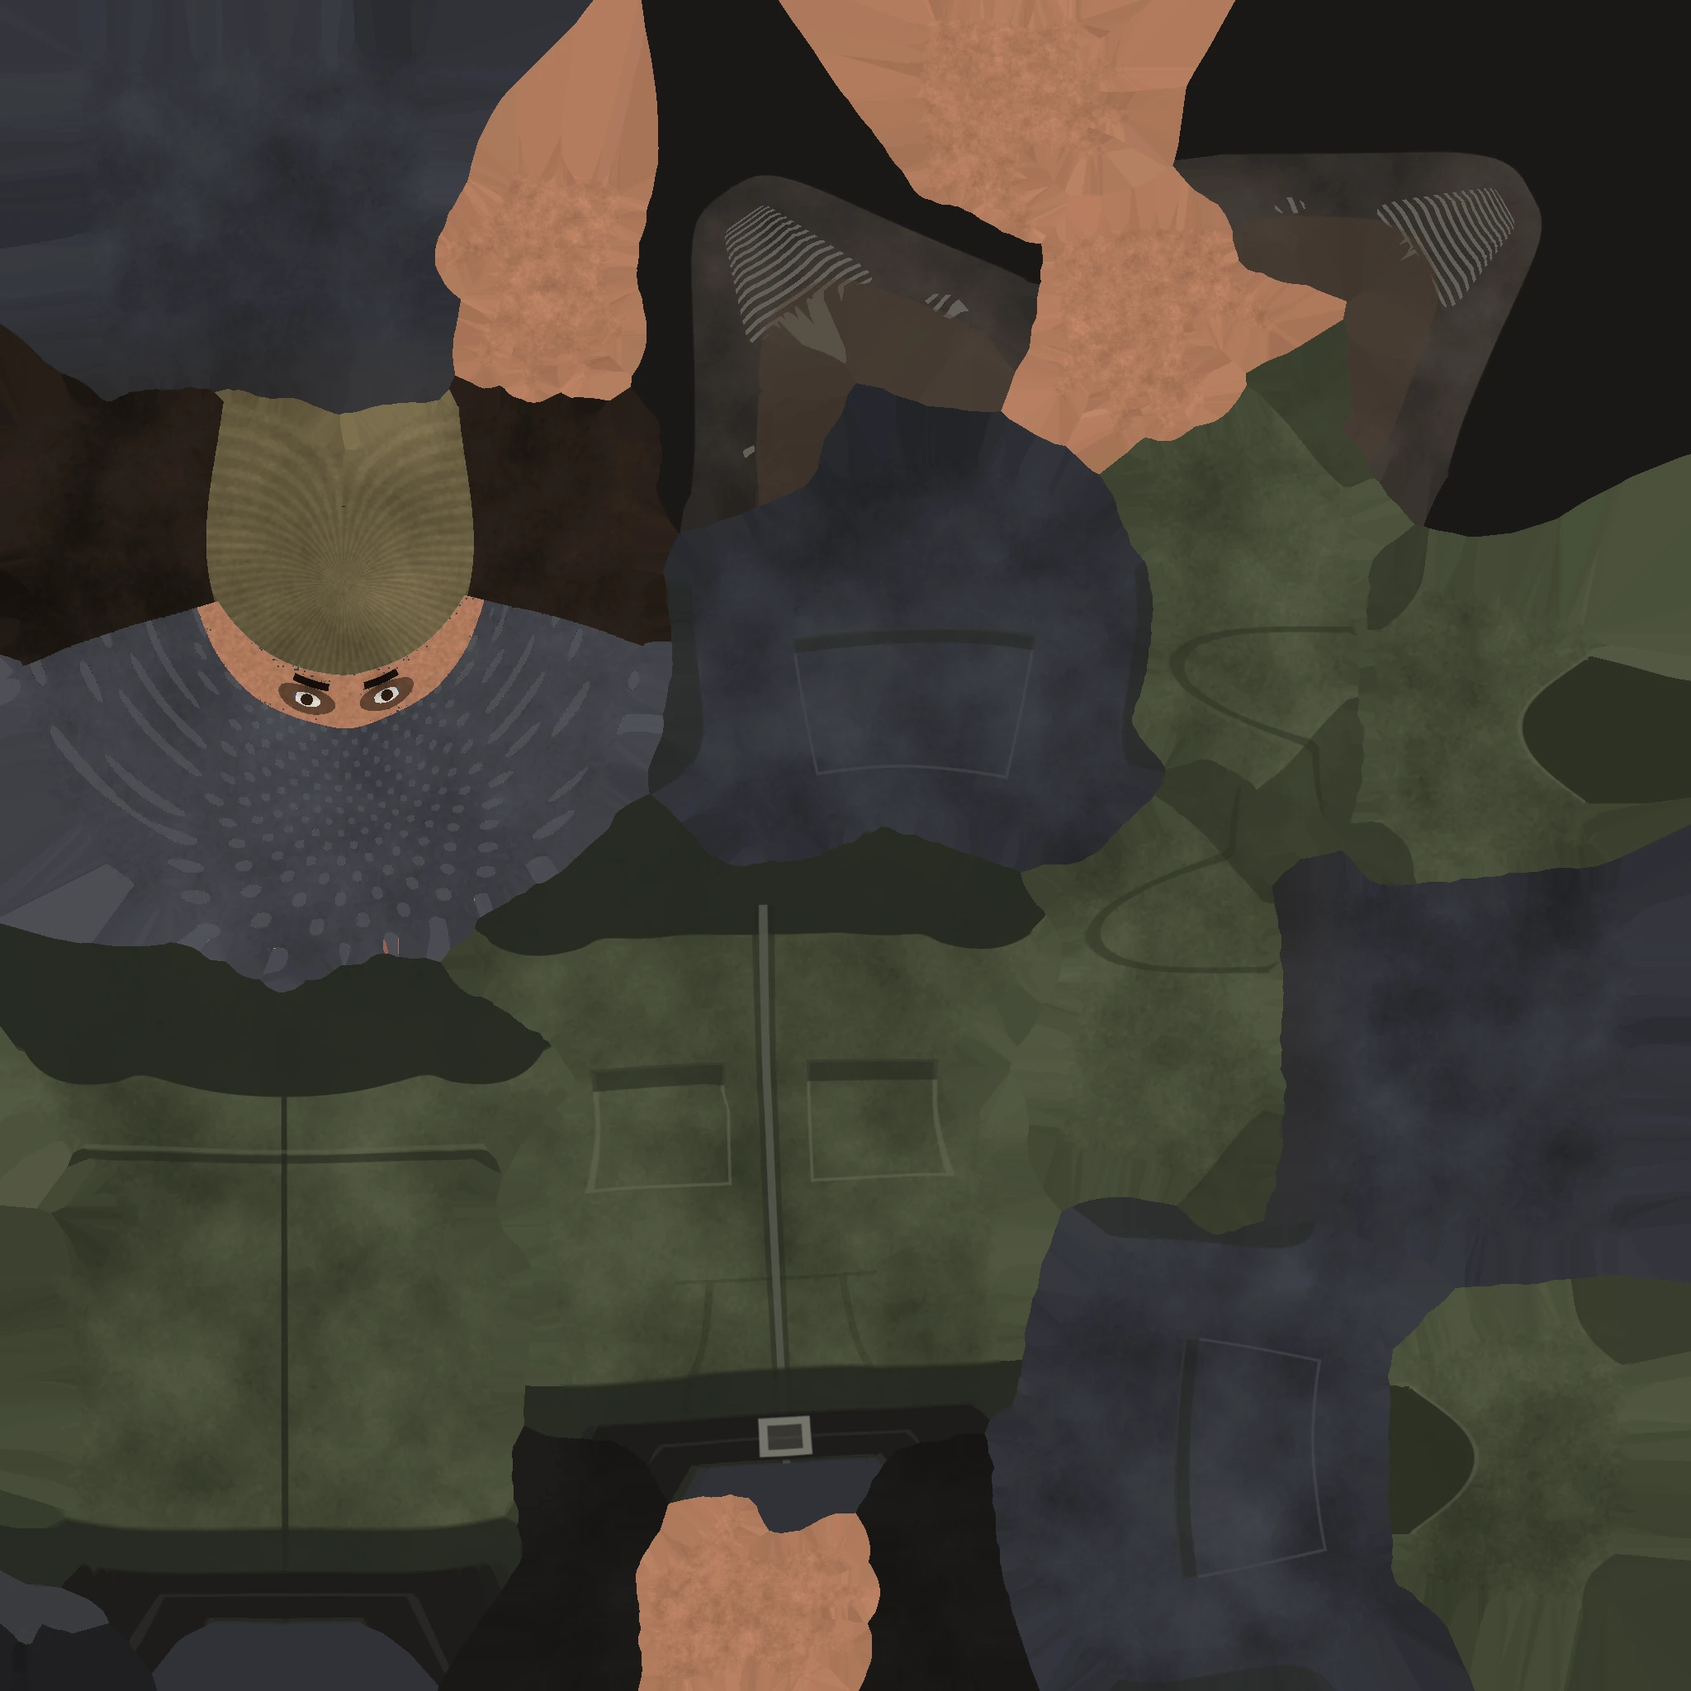
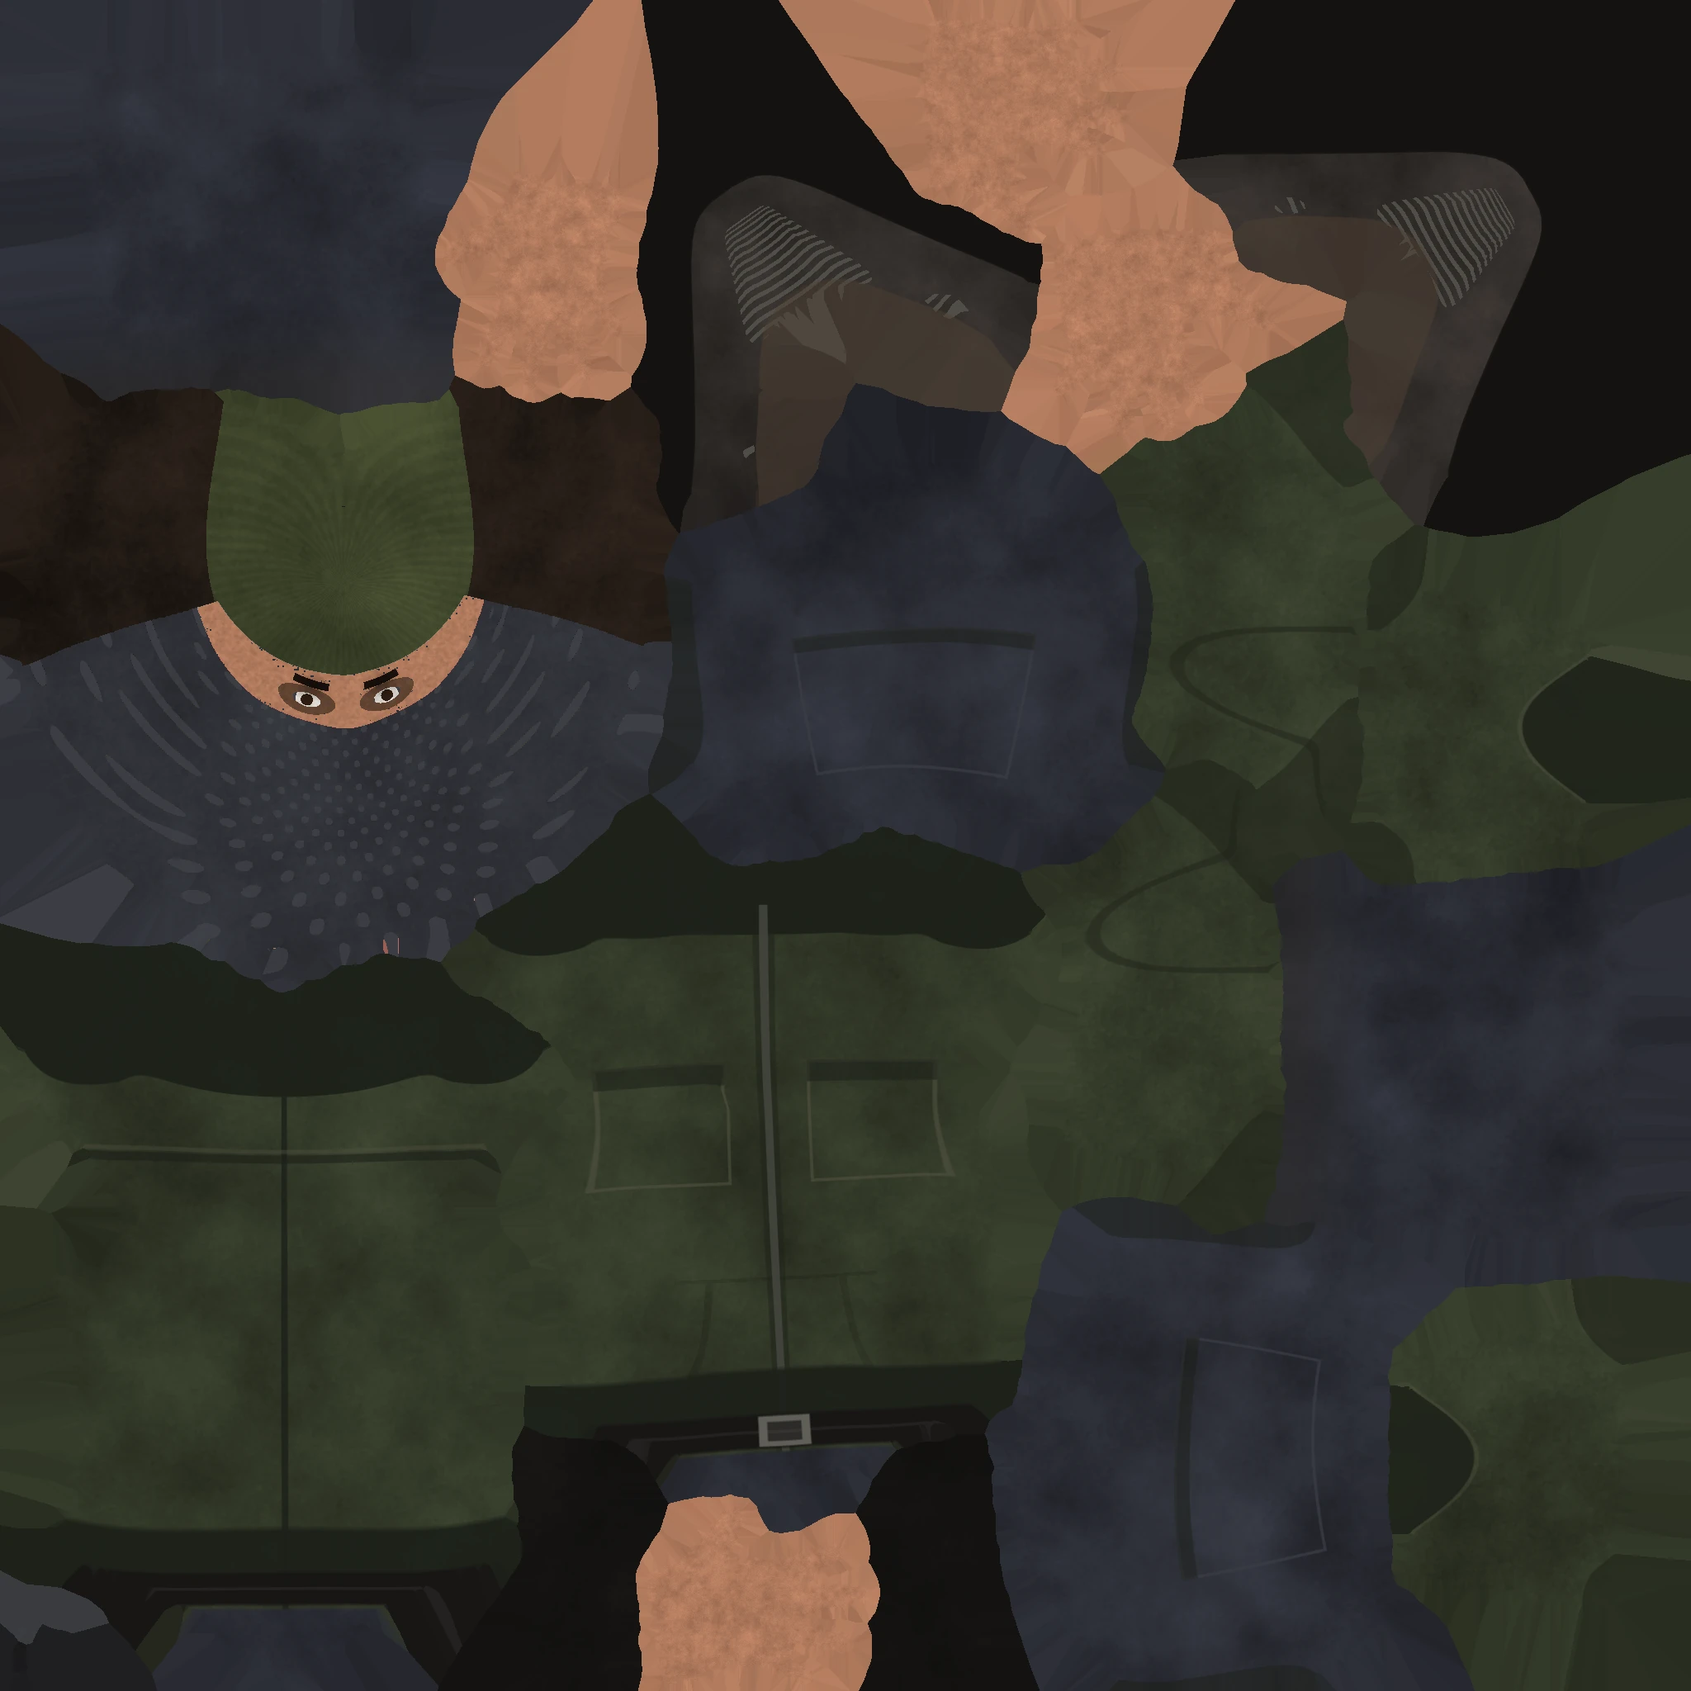
P2 characters r02: mask-map test with occluders, enemy fill, tint/spec, capture scripts (one launch, instance wait, offscreen), brute measurement tools

Changed region(s): [[0.125, 0.2188, 0.2812, 0.4062], [0.4375, 0.8438, 0.5312, 0.875], [0.125, 0.9375, 0.1562, 0.9688]]

diff --git a/tools/ue_char/brute/paint_brute.py b/tools/ue_char/brute/paint_brute.py
@@ -30,6 +30,7 @@ ap = argparse.ArgumentParser()
 ap.add_argument('--geom', default=SCR + '/uvgeom.npz')
 ap.add_argument('--src', default=ART + '/thug_basecolor.png')
 ap.add_argument('--no-webp', action='store_true')
+ap.add_argument('--audit-png', default=None, help='only audit this texture (skin-like / white texels outside hands+face on the thug UVs), then exit')
 ap.add_argument('--out-dir', default=ART)
 ap.add_argument('--webp', default=os.path.join(ROOT, 'public/assets/enemies/brute_basecolor.webp'))
 A = ap.parse_args()
@@ -38,21 +39,21 @@ N = 2048
 rng = np.random.RandomState(20260930)
 
 # ------------------------------------------------------------------ palette (sRGB)
-VEST = np.array([68, 74, 54], np.float32)        # olive work jacket, body
-VEST_DK = np.array([36, 40, 32], np.float32)     # collar, hem, yoke seams
+VEST = np.array([50, 56, 40], np.float32)        # olive work jacket, body
+VEST_DK = np.array([28, 32, 25], np.float32)     # collar, hem, yoke seams
 SLEEVE = VEST * 1.04                              # same garment as the body: the torso/sleeve UV cut is jagged, so no colour step across it
-SLEEVE_DK = np.array([44, 48, 36], np.float32)   # cuffs, elbow patches
-TROUSER = np.array([48, 50, 56], np.float32)     # charcoal work trousers
-TROUSER_WEAR = np.array([70, 72, 78], np.float32)
-BOOT = np.array([52, 47, 43], np.float32)        # near-neutral dark work boots (a saturated brown would read as skin under sun)
-BOOT_SOLE = np.array([26, 24, 23], np.float32)
-LACE = np.array([104, 102, 94], np.float32)
-BEANIE = np.array([96, 86, 60], np.float32)    # khaki knit beanie: readable head silhouette
+SLEEVE_DK = np.array([32, 36, 27], np.float32)   # cuffs, elbow patches
+TROUSER = np.array([42, 44, 52], np.float32)     # charcoal work trousers
+TROUSER_WEAR = np.array([60, 62, 70], np.float32)
+BOOT = np.array([46, 42, 39], np.float32)        # near-neutral dark work boots (a saturated brown would read as skin under sun)
+BOOT_SOLE = np.array([20, 19, 18], np.float32)
+LACE = np.array([84, 82, 76], np.float32)
+BEANIE = np.array([58, 64, 40], np.float32)    # olive-green knit beanie (a khaki/tan one reads as skin-coloured in sun)
 HAIR = np.array([36, 28, 22], np.float32)
-BANDANA = np.array([64, 66, 72], np.float32)     # plain slate bandana (no dot pattern)
-BANDANA_PAT = np.array([88, 90, 98], np.float32)
-STITCH = np.array([104, 104, 84], np.float32)
-ZIP = np.array([128, 128, 118], np.float32)
+BANDANA = np.array([48, 50, 56], np.float32)     # plain slate bandana (no dot pattern)
+BANDANA_PAT = np.array([70, 72, 80], np.float32)
+STITCH = np.array([84, 84, 66], np.float32)
+ZIP = np.array([104, 104, 96], np.float32)
 
 
 def fbm(scale_px, octaves=4, seed=0):
@@ -191,17 +192,18 @@ for role in ('torso_front', 'torso_back'):
         img = mix(img, STITCH, band(Z, 1.397, 1.402) * 0.35)
     out[m] = img[m]
 
-# ------------------------------------------------------------------ waist: one colour profile over height, used by BOTH torso and thigh islands,
-# so the jagged torso/thigh UV cut (z 0.83-0.95) is invisible: jacket hem rib -> black leather belt -> trouser waistband
-BELT = np.array([30, 28, 27], np.float32)
-BUCKLE = np.array([118, 116, 108], np.float32)
-waist = R('torso_front', 'torso_back', 'thigh') & (Z > 0.80) & (Z < 1.02)
+# ------------------------------------------------------------------ waist: jacket hem rib and belt live on the TORSO islands only (the pelvis is rigid with
+# the torso; painting them on the thigh islands showed up as a strap across the swinging thigh). The torso's lowest part, which meets the
+# jagged UV cut against the thigh islands, is trouser coloured so that cut is invisible.
+BELT = np.array([24, 22, 21], np.float32)
+BUCKLE = np.array([96, 94, 88], np.float32)
+waist = R('torso_front', 'torso_back') & (Z > 0.80) & (Z < 1.02)
 wimg = out.copy()
 wimg = mix(wimg, VEST_DK, band(Z, 0.935, 0.985, 0.006) * 0.9)                                      # ribbed jacket hem
-wimg = mix(wimg, BELT, band(Z, 0.885, 0.938, 0.004))                                               # belt
-wimg = mix(wimg, (44, 42, 40), band(Z, 0.885, 0.938, 0.004) * line(Z, 0.9115, 0.0018) * 0.8)       # belt stitching
-wimg = mix(wimg, BUCKLE, band(X, -0.030, 0.030, 0.002) * band(Z, 0.890, 0.934, 0.002) * (Y < -0.05) * (1 - band(X, -0.020, 0.020, 0.002) * band(Z, 0.898, 0.926, 0.002) * 0.7))
-wimg = mix(wimg, TROUSER, band(Z, 0.80, 0.882, 0.004) * (R('torso_front', 'torso_back')))            # trouser colour where the torso cut sits below the belt
+wimg = mix(wimg, BELT, band(Z, 0.90, 0.938, 0.004))                                                # belt
+wimg = mix(wimg, (38, 36, 34), band(Z, 0.90, 0.938, 0.004) * line(Z, 0.919, 0.0018) * 0.8)         # belt stitching
+wimg = mix(wimg, BUCKLE, band(X, -0.030, 0.030, 0.002) * band(Z, 0.902, 0.936, 0.002) * (Y < -0.05) * (1 - band(X, -0.020, 0.020, 0.002) * band(Z, 0.908, 0.930, 0.002) * 0.7))
+wimg = mix(wimg, fabric(TROUSER, 0.05, 0.14), band(Z, 0.0, 0.896, 0.004))                          # trouser colour below the belt
 out[waist] = wimg[waist]
 
 # ------------------------------------------------------------------ sleeves
@@ -282,7 +284,7 @@ beanie_zone |= m & (Z > 1.70)
 hair_zone = cap & ~beanie_zone
 img = out.copy()
 rib = np.clip((L_src - 26.0) / 6.0, -1, 1)                                         # the thug beanie's rib pattern (few levels of luma)
-bean = fabric(BEANIE, 0.05, 0.10) * (1 + 0.12 * rib[..., None])
+bean = fabric(BEANIE, 0.05, 0.10) * (1 + 0.08 * rib[..., None])
 img[beanie_zone] = bean[beanie_zone]
 img[hair_zone] = fabric(HAIR, 0.10, 0.2)[hair_zone]
 pat = np.clip((L_src - 60) / 160.0, 0, 1)
@@ -298,6 +300,29 @@ for ex, ey, ez in eyes:
 face = face * (1 - 0.30 * brow_shadow[..., None])
 img[keep_face] = face[keep_face]
 out[m] = img[m]
+
+def hsv(a):
+    a = a / 255.0
+    mx, mn = a.max(-1), a.min(-1)
+    dlt = mx - mn + 1e-9
+    h = np.where(mx == a[..., 0], ((a[..., 1] - a[..., 2]) / dlt) % 6, np.where(mx == a[..., 1], (a[..., 2] - a[..., 0]) / dlt + 2, (a[..., 0] - a[..., 1]) / dlt + 4)) * 60
+    return h, np.where(mx > 0, (mx - mn) / (mx + 1e-9), 0), mx
+
+
+def audit_texture(tex):
+    h, s_, v = hsv(tex)
+    skin_like = (h >= 8) & (h <= 38) & (s_ >= 0.22) & (s_ <= 0.65) & (v >= 0.42)
+    white_like = (v >= 0.80) & (s_ <= 0.18)
+    allowed = (keep_face & m) | R('hand')
+    return dict(cloth_texels=int((covered & ~allowed).sum()),
+                skin_like_outside=int((skin_like & covered & ~allowed).sum()),
+                white_like_outside=int((white_like & covered & ~allowed).sum()),
+                white_like_in_face_or_hands=int((white_like & covered & allowed).sum())), skin_like, allowed
+
+
+if A.audit_png:
+    print('audit', A.audit_png, audit_texture(np.array(Image.open(A.audit_png).convert('RGB'), np.float32))[0])
+    sys.exit(0)
 
 # ------------------------------------------------------------------ gutters: extend island colours outward (no lavender bleed into mips)
 edt_d, (iy, ix) = ndi.distance_transform_edt(~covered, return_indices=True)
@@ -320,20 +345,9 @@ reg = np.where(covered[..., None], reg, reg[iy, ix])
 Image.fromarray(reg).save(os.path.join(A.out_dir, 'brute_regions.png'))
 
 # texture-level audit: skin-coloured or white texels outside hands/face
-def hsv(a):
-    a = a / 255.0
-    mx, mn = a.max(-1), a.min(-1)
-    dlt = mx - mn + 1e-9
-    h = np.where(mx == a[..., 0], ((a[..., 1] - a[..., 2]) / dlt) % 6, np.where(mx == a[..., 1], (a[..., 2] - a[..., 0]) / dlt + 2, (a[..., 0] - a[..., 1]) / dlt + 4)) * 60
-    return h, np.where(mx > 0, (mx - mn) / (mx + 1e-9), 0), mx
-h, s, v = hsv(res)
-skin_like = (h >= 8) & (h <= 38) & (s >= 0.22) & (s <= 0.65) & (v >= 0.42)
-white_like = (v >= 0.80) & (s <= 0.18)
-allowed = (face_reg | hand_reg)
-audit = dict(cloth_texels=int((covered & ~allowed).sum()),
-             skin_like_outside=int((skin_like & covered & ~allowed).sum()),
-             white_like_outside=int((white_like & covered & ~allowed).sum()),
-             white_like_in_face_or_hands=int((white_like & covered & allowed).sum()))
+audit, skin_like, allowed = audit_texture(res)
+face_reg = keep_face & m
+hand_reg = R('hand')
 print('texture audit', audit)
 json.dump(audit, open(os.path.join(SCR, 'brute_texture_audit.json'), 'w'), indent=1)
 if not A.no_webp:

diff --git a/unreal/WebHomage/Scripts/build_characters.py b/unreal/WebHomage/Scripts/build_characters.py
@@ -213,6 +213,16 @@ def build_idmask():
     MEL.recompile_material(m)
     return m
 
+def build_maskother():
+    """M_Char_MaskOther: unlit yellow. In the mask map every OTHER character uses it: it occludes the brute exactly as in the beauty run and marks
+    where another character (and its motion blur) may contaminate pixels."""
+    m = new_material(ROOT + '/Shared/Materials', 'M_Char_MaskOther', skeletal=True)
+    m.set_editor_property('shading_model', unreal.MaterialShadingModel.MSM_UNLIT)
+    z = E(m, unreal.MaterialExpressionConstant3Vector, -400, 0); z.set_editor_property('constant', unreal.LinearColor(1, 1, 0, 1))
+    MEL.connect_material_property(z, '', unreal.MaterialProperty.MP_EMISSIVE_COLOR)
+    MEL.recompile_material(m)
+    return m
+
 def mi(name, path, parent, tex=None, scal=None, vec=None, switches=None):
     full = path + '/' + name
     if EAL.does_asset_exist(full): EAL.delete_asset(full)
@@ -236,6 +246,7 @@ def build_ground_materials():
         MEL.recompile_material(m); out[n] = m
     return out
 
+BRUTE_TINT = float(ARGS.get('brute_tint', 0.85))
 if 'mat' in STEPS:
     suit = build_suit_master()
     lens = build_simple('M_Char_Lens', emissive=True)
@@ -250,9 +261,14 @@ if 'mat' in STEPS:
     th = {'Normal': ROOT + '/Thug/Textures/T_Thug_Normal', 'ORM': ROOT + '/Thug/Textures/T_Thug_ORM'}
     for v, t in (('', 'T_Thug_BaseColor'), ('_B', 'T_Thug_BaseColor_B'), ('_C', 'T_Thug_BaseColor_C'), ('Brute', 'T_Brute_BaseColor')):
         n = 'MI_Brute' if v == 'Brute' else 'MI_Thug' + v
-        mi(n, ROOT + '/Thug/Materials', suit, tex=dict(th, BaseColor=ROOT + '/Thug/Textures/' + t), scal={'Cloth': 0.3, 'DetailStrength': 0.0}, switches={'HasORM': True})
+        sc_ = {'Cloth': 0.3, 'DetailStrength': 0.0}
+        if v == 'Brute': sc_.update({'Cloth': 0.12, 'Specular': 0.15})   # dark cloth in bright daylight: keep spec/sheen from veiling the albedo
+        vc_ = {}
+        if v == 'Brute': vc_['Tint'] = (BRUTE_TINT, BRUTE_TINT, BRUTE_TINT, 1.0)   # test stage renders albedo ~3x brighter (sRGB); UE-only, the browser texture is untouched
+        mi(n, ROOT + '/Thug/Materials', suit, tex=dict(th, BaseColor=ROOT + '/Thug/Textures/' + t), scal=sc_, vec=vc_, switches={'HasORM': True})
     if EAL.does_asset_exist(ROOT + '/Thug/Textures/T_Brute_Regions'):
         mi('MI_BruteMask', ROOT + '/Thug/Materials', build_idmask(), tex={'Regions': ROOT + '/Thug/Textures/T_Brute_Regions'})
+        mi('MI_MaskOther', ROOT + '/Shared/Materials', build_maskother())
     for s in SUITS:
         P = ROOT + '/Suits/%s/Textures/T_Suit_%s_' % (s, s)
         tex = {'BaseColor': P + 'BaseColor', 'DetailNormal': ROOT + '/Shared/Textures/T_Fabric_Knit_N'}
@@ -520,8 +536,12 @@ if 'map' in STEPS:
                     act.get_editor_property('mesh').set_material(0, load(T + 'Materials/MI_BruteMask'))
                 elif not ARGS.get('mask_keep_scene') and cls in ('DirectionalLight', 'SkyAtmosphere', 'SkyLight', 'ExponentialHeightFog'):
                     eas.destroy_actor(act)                       # black background: only the unlit mask is visible
-                elif not ARGS.get('mask_keep_scene') and isinstance(act, (unreal.StaticMeshActor, unreal.WHCharLoopWalker)):
-                    act.set_actor_hidden_in_game(True)           # backdrop and the other characters (kept alive: the director targets them)
+                elif not ARGS.get('mask_keep_scene') and isinstance(act, unreal.StaticMeshActor):
+                    act.set_actor_hidden_in_game(True)           # backdrop
+                elif not ARGS.get('mask_keep_scene') and isinstance(act, unreal.WHCharLoopWalker):
+                    m_ = act.get_editor_property('mesh')         # other characters: unlit yellow, so they occlude the brute like in the beauty run
+                    for slot in range(m_.get_num_materials()):
+                        m_.set_material(slot, load(ROOT + '/Shared/Materials/MI_MaskOther'))
                 elif isinstance(act, unreal.PostProcessVolume) and ARGS.get('mask_ev', 'auto') != 'auto':
                     ps = act.get_editor_property('settings')     # fixed exposure so the mask colours do not drift
                     ps.set_editor_property('override_auto_exposure_method', True); ps.set_editor_property('auto_exposure_method', unreal.AutoExposureMethod.AEM_MANUAL)

diff --git a/tools/ue_char/brute/measure_frames.py b/tools/ue_char/brute/measure_frames.py
@@ -2,7 +2,8 @@
 """Skin/white patch test for the brute in captured 4K frames (fan homage project; not official Marvel/Sony/Insomniac).
 
 Two deterministic `-movie` runs of the same shot: BEAUTY (Char_Lineup) and MASK (Char_Lineup_BruteMask: identical actors and
-timing, the brute drawn unlit with T_Brute_Regions, R = face skin, G = hands, B = everything else, black background).
+timing, the brute drawn unlit with T_Brute_Regions, R = face skin, G = hands, B = everything else, every other character unlit yellow,
+black background).
 Per frame pair: the mask gives the brute's pixels and their region; on the beauty frame, CLOTH pixels (mask B, eroded 6 px, at
 least 14 px away from any hand/face pixel so motion blur cannot smear skin into cloth) are classified:
   skin-like  hue 8-38 deg, sat 0.22-0.65, value >= 0.42 (strict) / >= 0.30 (loose)
@@ -56,17 +57,24 @@ for i in range(A.start, n, A.step):
     mx = m.max(-1)
     on = mx >= 60
     R, G, B = m[..., 0], m[..., 1], m[..., 2]
-    face = on & (R > G + 40) & (R > B + 40)
-    hands = on & (G > R + 40) & (G > B + 20)
-    cloth = on & (B > R + 40) & (B > G + 20)
+    # pure classes only: anything in between (edge blends, another character's blur mixing yellow into blue) is 'contaminated' and excluded
+    cloth = on & (R < 70) & (G < 70) & (B > 120)
+    face = on & (R > 150) & (G < 90) & (B < 120)
+    hands = on & (G > 150) & (R < 90) & (B < 120)
+    other = (R > 45) & (G > 45) & (B < 0.6 * np.minimum(R, G)) & (np.abs(R - G) < 0.45 * np.maximum(R, G))   # other characters (unlit yellow) incl. faint blur tails
+    contam = (on & ~(cloth | face | hands)) | other
     if cloth.sum() < 2000:
         rows.append(dict(frame=i, brute_px=int(on.sum()), note='brute not in frame')); continue
     near_skin = ndi.binary_dilation(face | hands, iterations=14)
-    cloth_e = ndi.binary_erosion(cloth, iterations=6) & ~near_skin
+    near_other = ndi.binary_dilation(contam, iterations=30) if contam.any() else np.zeros_like(contam)
+    cloth_e = ndi.binary_erosion(cloth, iterations=6) & ~near_skin & ~near_other
     hh, ss, vv = hsv(b)
     sk_s, sk_l, wh = skin(hh, ss, vv, 0.42), skin(hh, ss, vv, 0.30), white(hh, ss, vv)
     hf_e = ndi.binary_erosion(face | hands, iterations=3)
-    r = dict(frame=i, brute_px=int(on.sum()), cloth_px=int(cloth_e.sum()),
+    fl = (sk_s | wh) & cloth_e
+    lab, nl = ndi.label(fl)
+    blob = int(np.bincount(lab.ravel())[1:].max()) if nl else 0      # largest connected flagged region (a 'patch' would be hundreds of px)
+    r = dict(frame=i, brute_px=int(on.sum()), cloth_px=int(cloth_e.sum()), max_blob_px=blob,
              skin_strict=int((sk_s & cloth_e).sum()), skin_loose=int((sk_l & cloth_e).sum()), white=int((wh & cloth_e).sum()),
              ctrl_hand_face_px=int(hf_e.sum()), ctrl_skin_strict=int((sk_s & hf_e).sum()), ctrl_white=int((wh & hf_e).sum()))
     rows.append(r)
@@ -79,7 +87,7 @@ tot = lambda k: int(sum(r[k] for r in ok))
 summ = dict(frames_analysed=len(ok), frames_skipped=len(rows) - len(ok), cloth_px=tot('cloth_px'),
             skin_strict=tot('skin_strict'), skin_loose=tot('skin_loose'), white=tot('white'),
             max_skin_strict_in_a_frame=max((r['skin_strict'] for r in ok), default=0), max_skin_loose_in_a_frame=max((r['skin_loose'] for r in ok), default=0),
-            max_white_in_a_frame=max((r['white'] for r in ok), default=0),
+            max_white_in_a_frame=max((r['white'] for r in ok), default=0), largest_flagged_blob_px=max((r['max_blob_px'] for r in ok), default=0),
             frames_with_any_skin_strict=sum(1 for r in ok if r['skin_strict'] > 0), frames_with_any_white=sum(1 for r in ok if r['white'] > 0),
             control_hand_face_px=tot('ctrl_hand_face_px'), control_skin_strict=tot('ctrl_skin_strict'),
             control_skin_strict_fraction=round(tot('ctrl_skin_strict') / max(1, tot('ctrl_hand_face_px')), 3))
